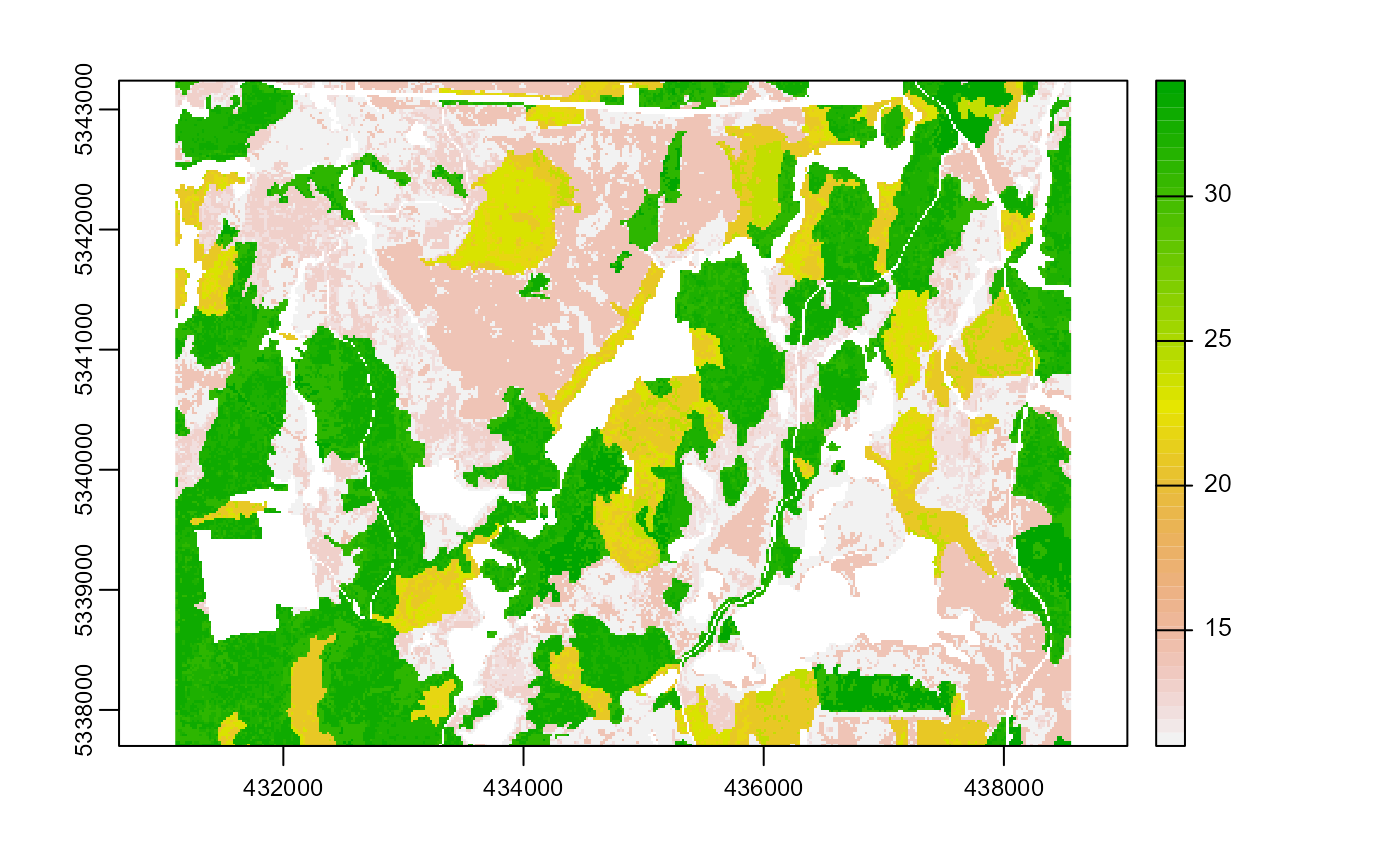
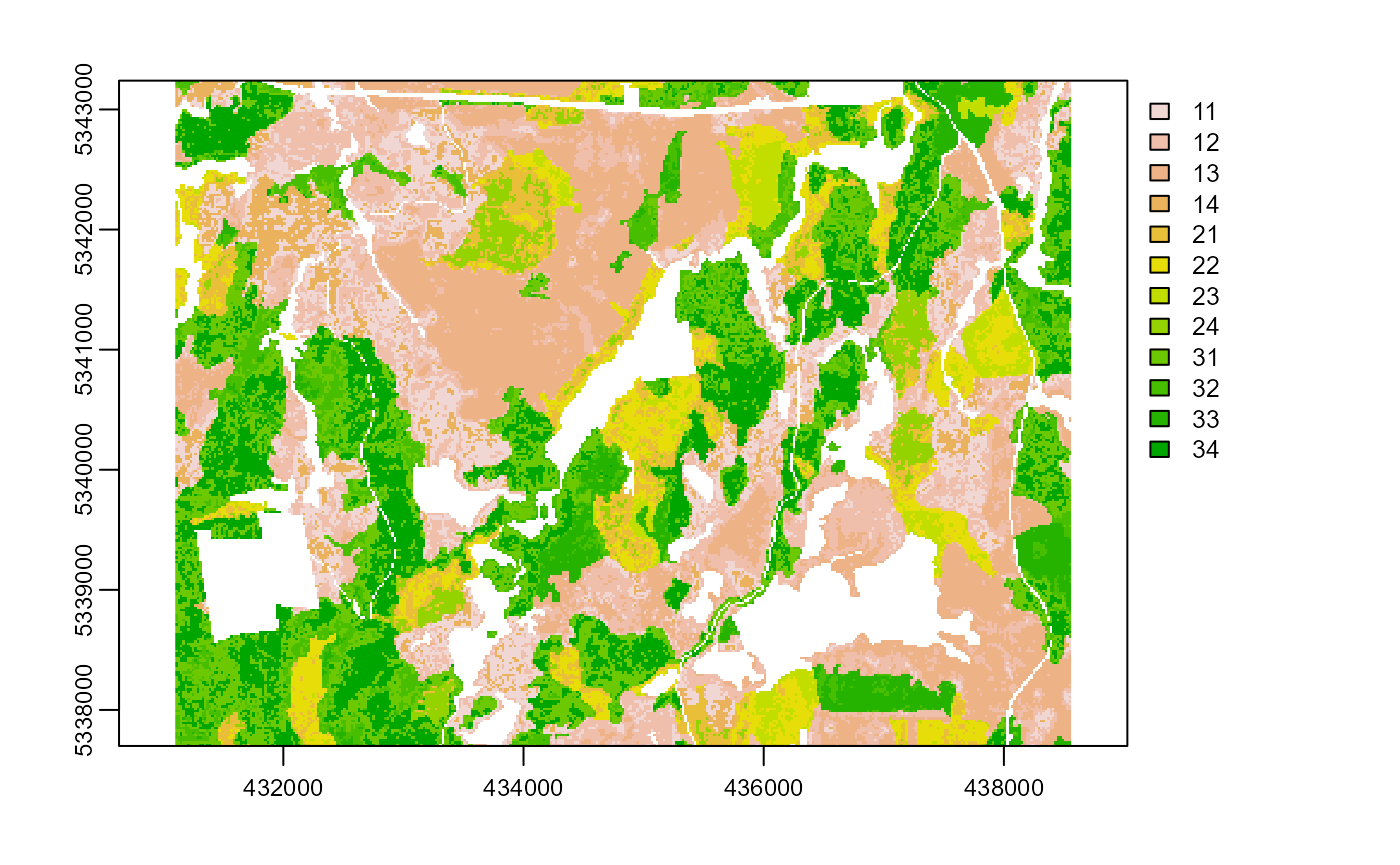
update

diff --git a/docs/articles/stratification.html b/docs/articles/stratification.html
@@ -443,18 +443,18 @@
 <span class="co">#&gt; </span>
 <span class="co">#&gt; $lookUp</span>
 <span class="co">#&gt;    strata strata2 stratamapped</span>
-<span class="co">#&gt; 1       3       1           31</span>
-<span class="co">#&gt; 2       3       4           34</span>
-<span class="co">#&gt; 3       1       2           12</span>
-<span class="co">#&gt; 4       1       3           13</span>
-<span class="co">#&gt; 5       3       2           32</span>
-<span class="co">#&gt; 6       3       3           33</span>
-<span class="co">#&gt; 7       1       1           11</span>
-<span class="co">#&gt; 8       1       4           14</span>
-<span class="co">#&gt; 9       2       1           21</span>
+<span class="co">#&gt; 1       3       2           32</span>
+<span class="co">#&gt; 2       3       3           33</span>
+<span class="co">#&gt; 3       1       1           11</span>
+<span class="co">#&gt; 4       1       4           14</span>
+<span class="co">#&gt; 5       3       1           31</span>
+<span class="co">#&gt; 6       3       4           34</span>
+<span class="co">#&gt; 7       1       2           12</span>
+<span class="co">#&gt; 8       1       3           13</span>
+<span class="co">#&gt; 9       2       3           23</span>
 <span class="co">#&gt; 10      2       2           22</span>
-<span class="co">#&gt; 11      2       4           24</span>
-<span class="co">#&gt; 12      2       3           23</span></code></pre>
+<span class="co">#&gt; 11      2       1           21</span>
+<span class="co">#&gt; 12      2       4           24</span></code></pre>
 </div>
 </div>
   </div>
